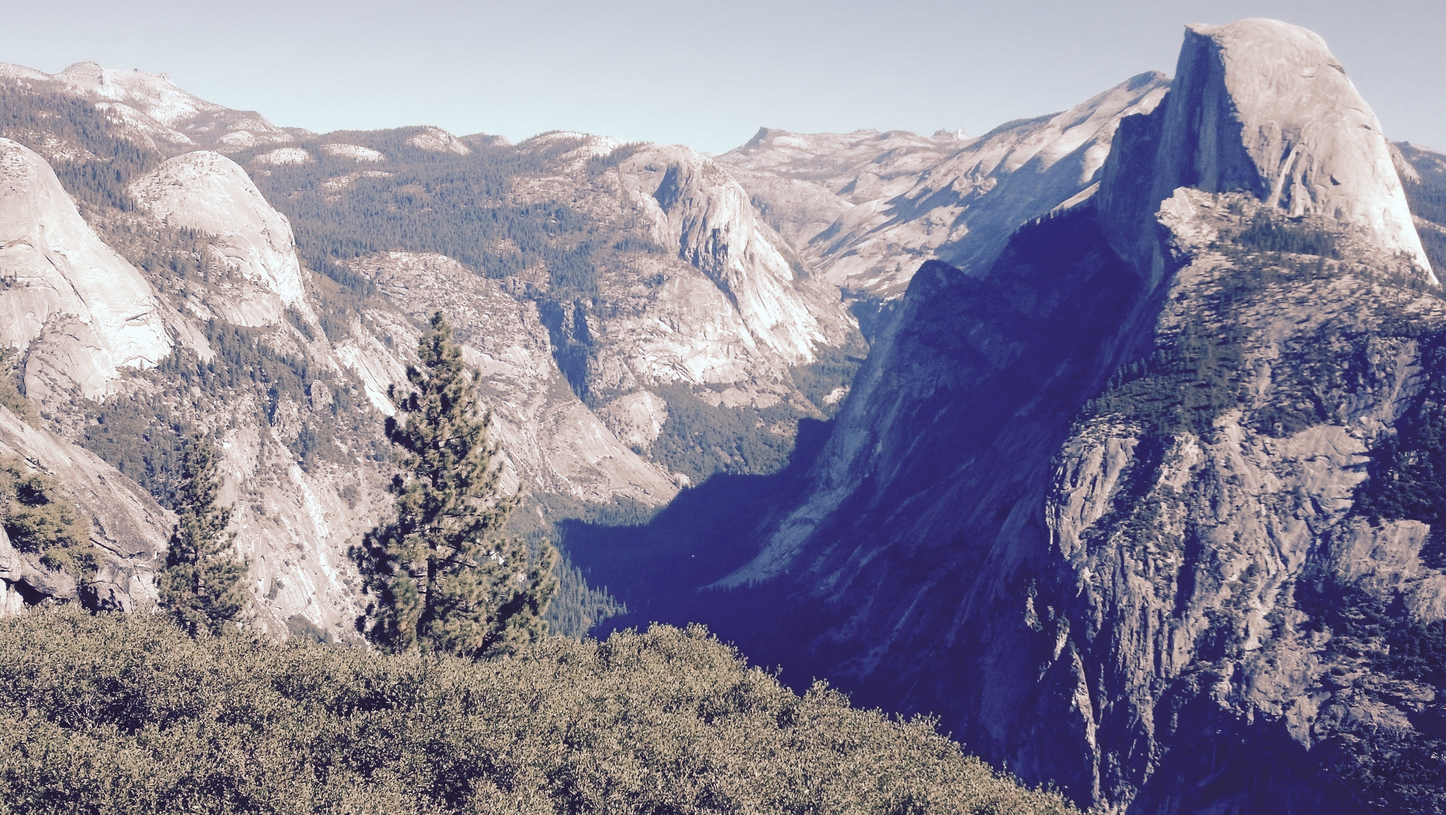
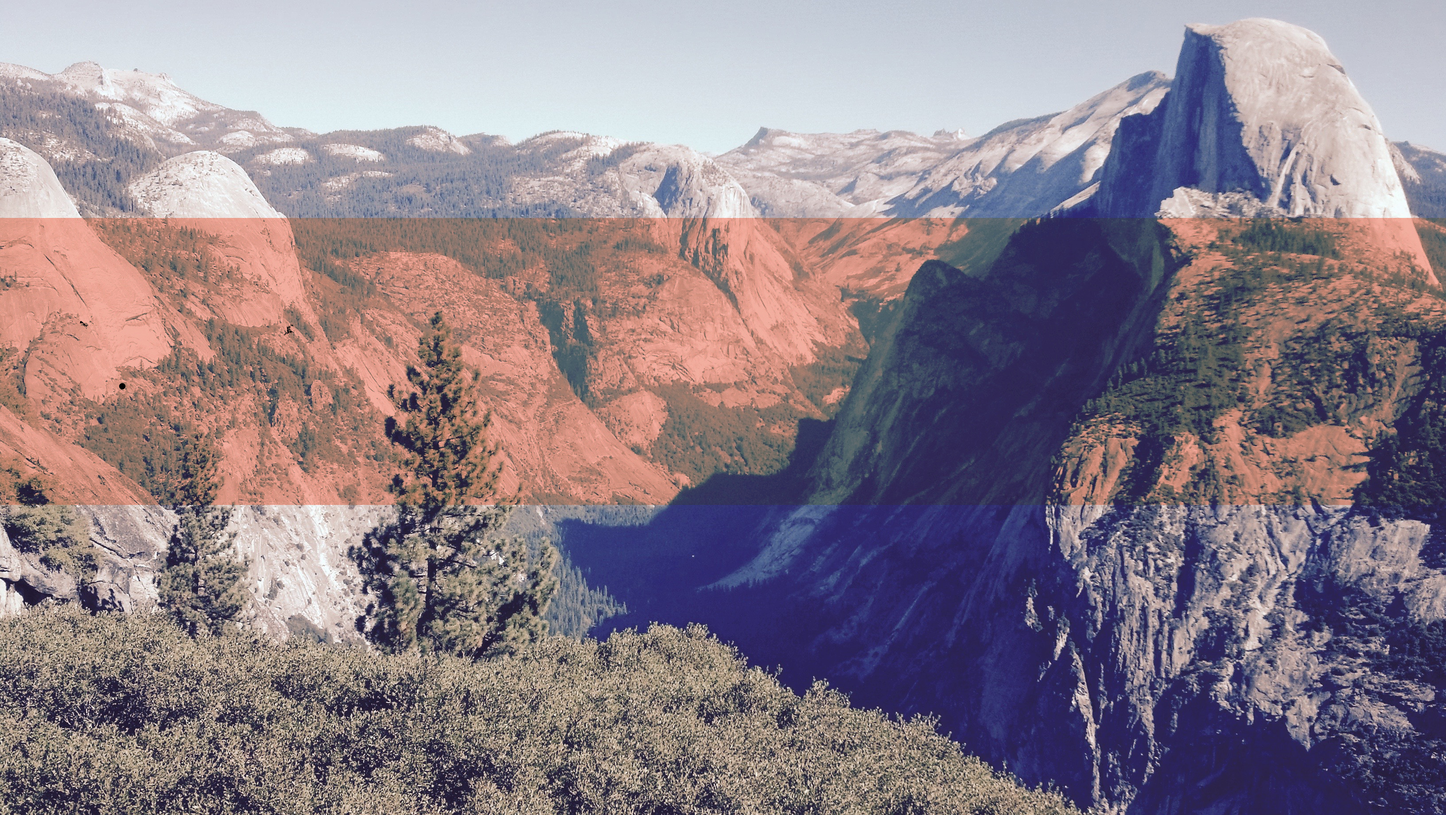
some changes to front end

Changed region(s): [[0.0, 0.2478, 1.0, 0.6196]]

diff --git a/app/templates/output_new.html b/app/templates/output_new.html
@@ -13,18 +13,20 @@
 
     <!-- Bootstrap Core CSS -->
     <link rel="stylesheet" href="../static/css/bootstrap.min.css" type="text/css">
-	
+
     
     <!-- Custom Fonts -->
     <link href='http://fonts.googleapis.com/css?family=Open+Sans:300italic,400italic,600italic,700italic,800italic,400,300,600,700,800' rel='stylesheet' type='text/css'>
     <link href='http://fonts.googleapis.com/css?family=Merriweather:400,300,300italic,400italic,700,700italic,900,900italic' rel='stylesheet' type='text/css'>
-    <link rel="stylesheet" href="font-awesome/css/font-awesome.min.css" type="text/css">
+    <link rel="stylesheet" href="../font-awesome/css/font-awesome.min.css" type="text/css">
 
     <!-- Plugin CSS -->
     <link rel="stylesheet" href="../static/css/animate.min.css" type="text/css">
 
     <!-- Custom CSS -->
     <link rel="stylesheet" href="../static/css/creative.css" type="text/css">
+	
+	<link href="../static/css/typeaheadjs.css" rel = "stylesheet">
 
     <!-- HTML5 Shim and Respond.js IE8 support of HTML5 elements and media queries -->
     <!-- WARNING: Respond.js doesn't work if you view the page via file:// -->
@@ -63,7 +65,6 @@
                     <li>
                         <a class="page-scroll" href="#about_me">About Me</a>
                     </li>
-                 
                 </ul>
             </div>
             <!-- /.navbar-collapse -->
@@ -77,15 +78,13 @@
             	<br><br>
                 <h1>ClimbFindr</h1>
                 <hr>
-                <h4>Your mountain is waiting, ... so get on your way!</h4>
+                <h4> Your mountain is waiting, ... so get on your way!</h4>
                 <br><br><br><br><br><br><br>
-
                 <a href="#recommendation" class="btn btn-primary btn-xl page-scroll">Get a recommendation</a>
             </div>
         </div>
     </header>
-    
-    
+
 <form action="/output" method="GET">
 <section class="bg-primary" id="recommendation">
         <div class="container">
@@ -108,7 +107,6 @@
                             <input class = "form-control" type="text" id = "crag" name = "crag" placeholder = "e.g. The Gunks"></input>
                        </div>
                          
-                        
                         <br><br><br> 
                         <div class = "form-group">
                             <h4>Something that has: </h4> 
@@ -133,53 +131,57 @@
 </section>
 </form>
 
+
 <section id="output">
         <div class="col-lg-8 col-lg-offset-2 text-center">
         <h2 class="section-heading">ClimbFindr's recommendations:</h2>
 		<br><br>
 		
-    	<button id="button" type="button" class="btn btn-primary btn-xl" data-toggle="collapse" data-target="#demo0">
-		{{the_result[0]}}
-        </button>
-        <br><br>
-    	<div id="demo0" class="collapse">
-        <ol class="list-group">
-          <li class="list-group-item"> <b>Location:</b> {{area_info[0].title()}}, {{region_info[0].title()}}</li>
-          <li class="list-group-item"> <b>Average rating (out of 4):</b> {{average_rating_info[0]}} </li>
-          <a href = {{url_info[0]}} <li class="list-group-item"><b>Mountain Project's Description</b></li> </a>
-        </ol>
-    	</div>
-    
-    	<button id="button" type="button" class="btn btn-primary btn-xl" data-toggle="collapse" data-target="#demo1">
-		 {{the_result[1]}}
-        </button>
-        <br><br>
-    	<div id="demo1" class="collapse">
-        <ol class="list-group">
-          <li class="list-group-item"> <b>Location:</b> {{area_info[1].title()}}, {{region_info[1].title()}}</li>
-          <li class="list-group-item"> <b>Average rating (out of 4):</b> {{average_rating_info[1]}} </li>
-          <a href = {{url_info[1]}} <li class="list-group-item" <b>Mountain Project's Description</b></li> </a>
-        </ol>
-    	</div>
-    	
-    	
-    	<button id="button" type="button" class="btn btn-primary btn-xl" data-toggle="collapse" data-target="#demo2">
-    	 {{the_result[2]}}
-        </button>
-        <br><br>
-    	<div id="demo2" data-toggle class="collapse">
-        <ol class="list-group">
-          <li class="list-group-item"> <b>Location:</b> {{area_info[2].title()}}, {{region_info[2].title()}}</li>
-          <li class="list-group-item"> <b>Average rating (out of 4):</b> {{average_rating_info[2]}} </li>
-          <a href = {{url_info[2]}} <li class="list-group-item" <b>Mountain Project's Description</b></li> </a>
-        </ol>
-    	</div>
-    	
-</section>
-  
-  
+	<div class="bs-example">
+    <div class="panel-group" id="accordion">
+        <div class="panel panel-default">
+            <div class="panel-heading">
+                <h4 class="panel-title">
+                    <a data-toggle="collapse" data-parent="#accordion" href="#collapseOne">1. What is HTML?</a>
+                </h4>
+            </div>
+            <div id="collapseOne" class="panel-collapse collapse in">
+                <div class="panel-body">
+                    <p>HTML stands for HyperText Markup Language. HTML is the main markup language for describing the structure of Web pages. <a href="http://www.tutorialrepublic.com/html-tutorial/" target="_blank">Learn more.</a></p>
+                </div>
+            </div>
+        </div>
+        <div class="panel panel-default">
+            <div class="panel-heading">
+                <h4 class="panel-title">
+                    <a data-toggle="collapse" data-parent="#accordion" href="#collapseTwo">2. What is Bootstrap?</a>
+                </h4>
+            </div>
+            <div id="collapseTwo" class="panel-collapse collapse">
+                <div class="panel-body">
+                    <p>Bootstrap is a powerful front-end framework for faster and easier web development. It is a collection of CSS and HTML conventions. <a href="http://www.tutorialrepublic.com/twitter-bootstrap-tutorial/" target="_blank">Learn more.</a></p>
+                </div>
+            </div>
+        </div>
+        <div class="panel panel-default">
+            <div class="panel-heading">
+                <h4 class="panel-title">
+                    <a data-toggle="collapse" data-parent="#accordion" href="#collapseThree">3. What is CSS?</a>
+                </h4>
+            </div>
+            <div id="collapseThree" class="panel-collapse collapse">
+                <div class="panel-body">
+                    <p>CSS stands for Cascading Style Sheet. CSS allows you to specify various style properties for a given HTML element such as colors, backgrounds, fonts etc. <a href="http://www.tutorialrepublic.com/css-tutorial/" target="_blank">Learn more.</a></p>
+                </div>
+            </div>
+        </div>
+    </div>
+</div>	
+		
 
-    <section class="no-padding" id="about_climbfindr">
+</section>
+    
+     <section class="no-padding" id="about_climbfindr">
         <div class="container-fluid">
            
                 </div>
@@ -217,16 +219,16 @@
         <div class="container">
             <div class="row">
                 <div class="col-lg-8 col-lg-offset-2 text-center">
-                    <h2 class="section-heading">Contact</h2>
+                    <h2 class="section-heading">About Me</h2>
                     <hr class="primary">
-                     <p><a href="mailto:your-email@your-domain.com">kathi.seidl@gmail.com</a></p>
-                     <p><a href="http://www.kathiseidlrathkopf.com"> kathiseidlrathkopf.com </a></p>
+                    <p><a href="mailto:your-email@your-domain.com">kathi.seidl@gmail.com</a></p>
+                    <p><a href="http://www.kathiseidlrathkopf.com"> kathiseidlrathkopf.com </a></p>
                 </div>
             </div>
         </div>
     </section>
     
-
+	
     <!-- jQuery -->
     <script src="../static/js/jquery.js"></script>
 
@@ -247,6 +249,7 @@
 	<script src="https://ajax.googleapis.com/ajax/libs/jquery/1.11.1/jquery.min.js"></script>
     <script src="https://maxcdn.bootstrapcdn.com/bootstrap/3.2.0/js/bootstrap.min.js"></script>
     <script src="script.js"></script>
+    
     
     
 </body>

diff --git a/app/templates/input.html b/app/templates/input.html
@@ -13,7 +13,6 @@
 
     <!-- Bootstrap Core CSS -->
     <link rel="stylesheet" href="../static/css/bootstrap.min.css" type="text/css">
-    <link href="../static/css/typeaheadjs.css" rel = "stylesheet">
 
     
     <!-- Custom Fonts -->
@@ -26,6 +25,7 @@
 
     <!-- Custom CSS -->
     <link rel="stylesheet" href="../static/css/creative.css" type="text/css">
+    <link href="../static/css/typeaheadjs.css" rel = "stylesheet">
 
     <!-- HTML5 Shim and Respond.js IE8 support of HTML5 elements and media queries -->
     <!-- WARNING: Respond.js doesn't work if you view the page via file:// -->
@@ -73,9 +73,11 @@
     <header>
         <div class="header-content">
             <div class="header-content-inner">
+            	<br><br>
                 <h1>ClimbFindr</h1>
                 <hr>
-                <p>Your mountain is waiting, ... so get on your way!</p>
+                <h4> Your mountain is waiting, ... so get on your way!</h4>
+                <br><br><br><br><br><br><br>
                 <a href="#recommendation" class="btn btn-primary btn-xl page-scroll">Get a recommendation</a>
             </div>
         </div>
@@ -181,8 +183,8 @@
                 <div class="col-lg-8 col-lg-offset-2 text-center">
                     <h2 class="section-heading">About Me</h2>
                     <hr class="primary">
-                     <p><a href="mailto:your-email@your-domain.com">kathi.seidl@gmail.com</a></p>
-                     <p><a href="kathiseidlrathkopf.com"> kathiseidlrathkopf.com </a></p>
+                    <p><a href="mailto:your-email@your-domain.com">kathi.seidl@gmail.com</a></p>
+                    <p><a href="http://www.kathiseidlrathkopf.com"> kathiseidlrathkopf.com </a></p>
                 </div>
             </div>
         </div>

diff --git a/app/static/css/custom-templates.css b/app/static/css/custom-templates.css
@@ -2,3 +2,10 @@
   padding: 5px 10px;
  text-align: center;
 }
+
+
+.panel-red {
+  border-color: #ed431f;
+  color: #ee4b28;
+    background-color: #ee4b28;
+}

diff --git a/app/views.py b/app/views.py
@@ -18,6 +18,10 @@ def climbfinder_input():
 
 @app.route('/output')
 def climbfinder_output():
+	
+	#set up the connection with the sql database
+	con = setup_con('climbfinder_test')
+	
 	#pull 'ID' from input field and store it
 	error = []
 	climb = request.args.get('climb')
@@ -38,35 +42,47 @@ def climbfinder_output():
 	if request.args.get('no'):
 		no = request.args.get('no')
 	else: no = 'no'
+
+
 	
+	try:
+		
+		### retrieve the reference climb from sql
+		refclimb = get_refclimb(climb, crag)
 	
-	refclimb = get_refclimb(climb, crag)
-	print len(refclimb)
-	if len(refclimb) > 1:
-		error = "Sorry! More than one climb named '%(climb)s' found in database. Please specify crag." %{"climb": climb.title()}
-		return render_template("except.html", the_result = error)
+		if len(refclimb) > 1:
+			error = "Sorry! More than one climb named '%(climb)s' found in database. Please specify crag." %{"climb": climb.title()}
+			return render_template("except.html", the_result = error)
 	
-	if len(refclimb) == 0:
-		error = "Sorry! Climb '%(climb)s' not found in database." %{"climb": climb.title()}
-		return render_template("except.html",  the_result = error)
+		if len(refclimb) == 0:
+			error = "Sorry! Climb '%(climb)s' not found in database." %{"climb": climb.title()}
+			return render_template("except.html",  the_result = error)
 		
 	
-	comparisonclimbs = get_comparisonclimbs(region, yes, no)
-	print len(comparisonclimbs)
-	if len(comparisonclimbs) == 0:
-		error = 'No climbs matching your criteria found in database.'
+		### retrieve the reference climb from sql
+		comparisonclimbs = get_comparisonclimbs(region, yes, no)
+
+		if len(comparisonclimbs) == 0:
+			error = 'No climbs matching your criteria found in database.'
+			return render_template("except.html",  the_result = error)
+	
+		
+		### get the top five most similar climbs
+		topfive = get_max_sim(refclimb, comparisonclimbs)
+		
+		### retrieve the information for the five climbs
+		climb_info = get_climb_info(topfive, comparisonclimbs)
+
+		
+		### feed into output page
+		return render_template("output.html", the_result = climb_info.name, region_info = climb_info.region,
+			area_info = climb_info.area, grade_info = climb_info, url_info = climb_info.url,
+			average_rating_info = climb_info.average_rating)
+			
+	except:
+		
+		### if it didn't work, return a generic error message
+		error = 'Sorry, something went wrong :('
 		return render_template("except.html",  the_result = error)
 	
-	
-	topfive = get_max_sim(refclimb, comparisonclimbs)
-	
-	climb_info = get_climb_info(topfive, comparisonclimbs)
-	
-
-	return render_template("output.html", the_result = climb_info.name, region_info = climb_info.region,
-			area_info = climb_info.area, grade_info = climb_info, url_info = climb_info,
-			average_rating_info = climb_info.average_rating)
-	#except:
-	#	error = 'Sorry! Climb not found in database :('
-	#	return error
 	

diff --git a/app/recommender_week4.py b/app/recommender_week4.py
@@ -7,6 +7,10 @@ import MySQLdb as mdb
 # set up connection with sql server
 con = mdb.connect('localhost', 'root', '', 'climbfinder_test')
 
+def setup_con(database):
+	con = mdb.connect('localhost', 'root', '', database)
+	return con
+
 
 def get_refclimb(name, crag = None):
     if crag == None:
